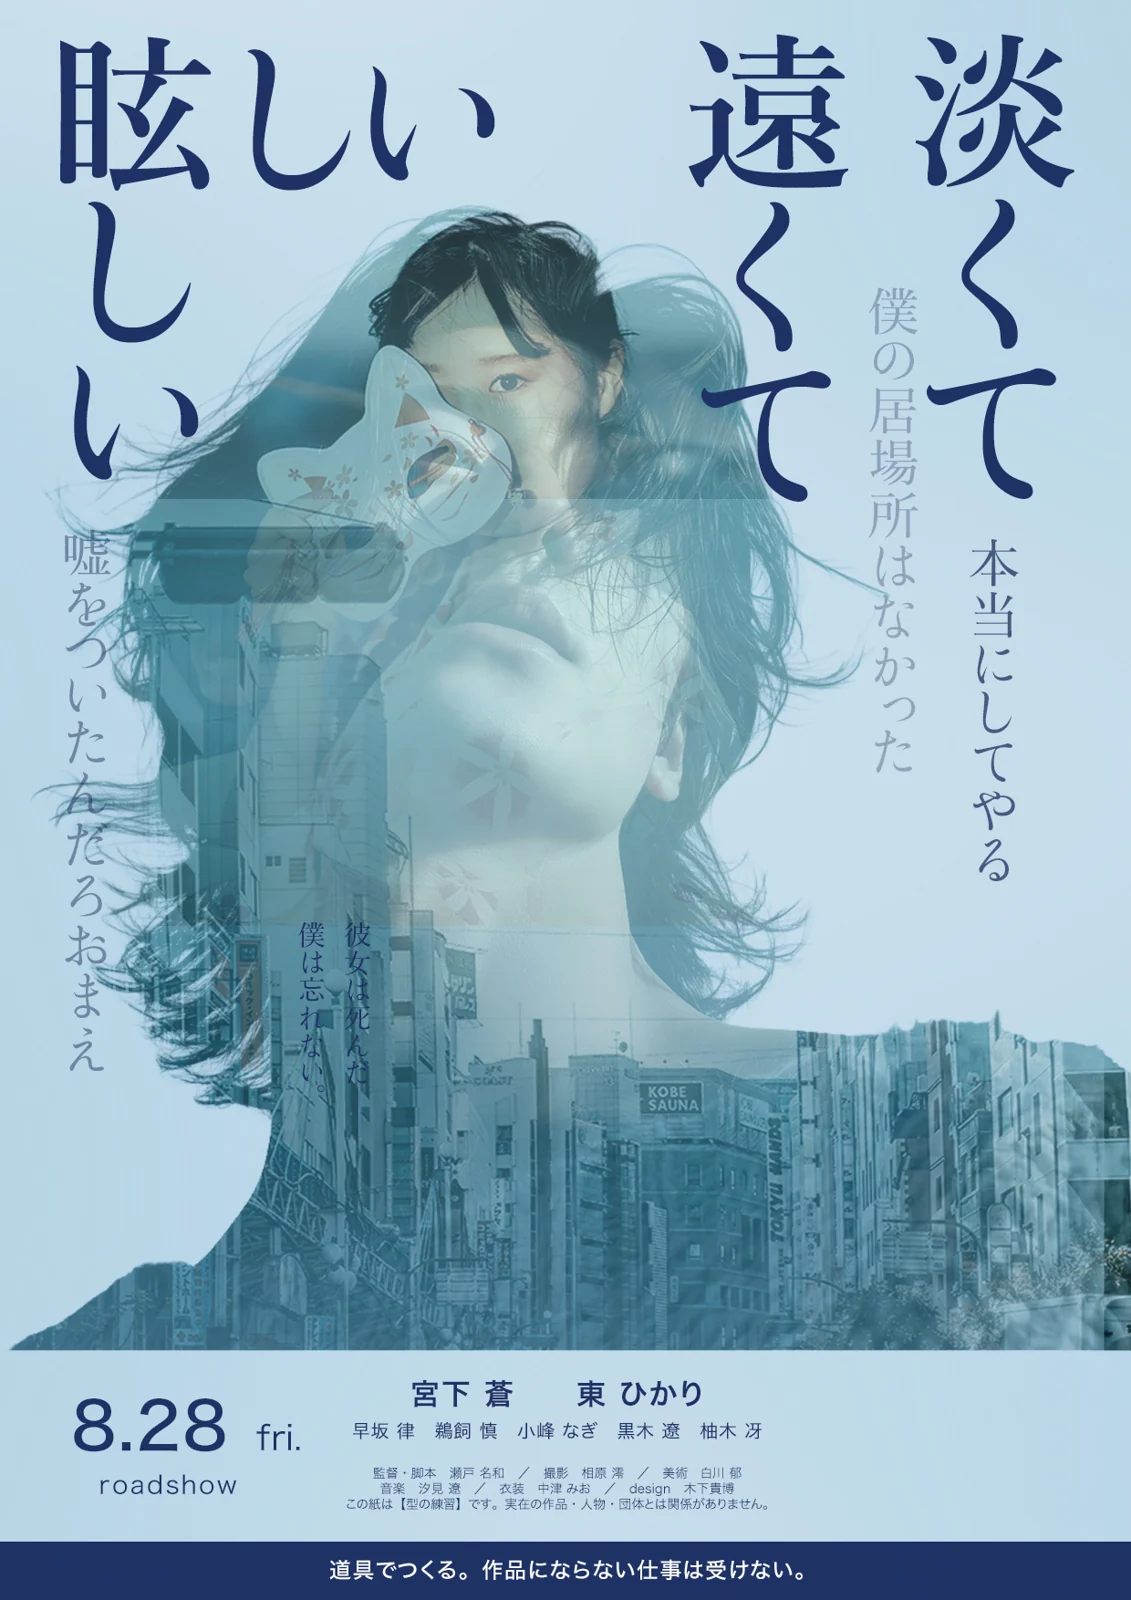
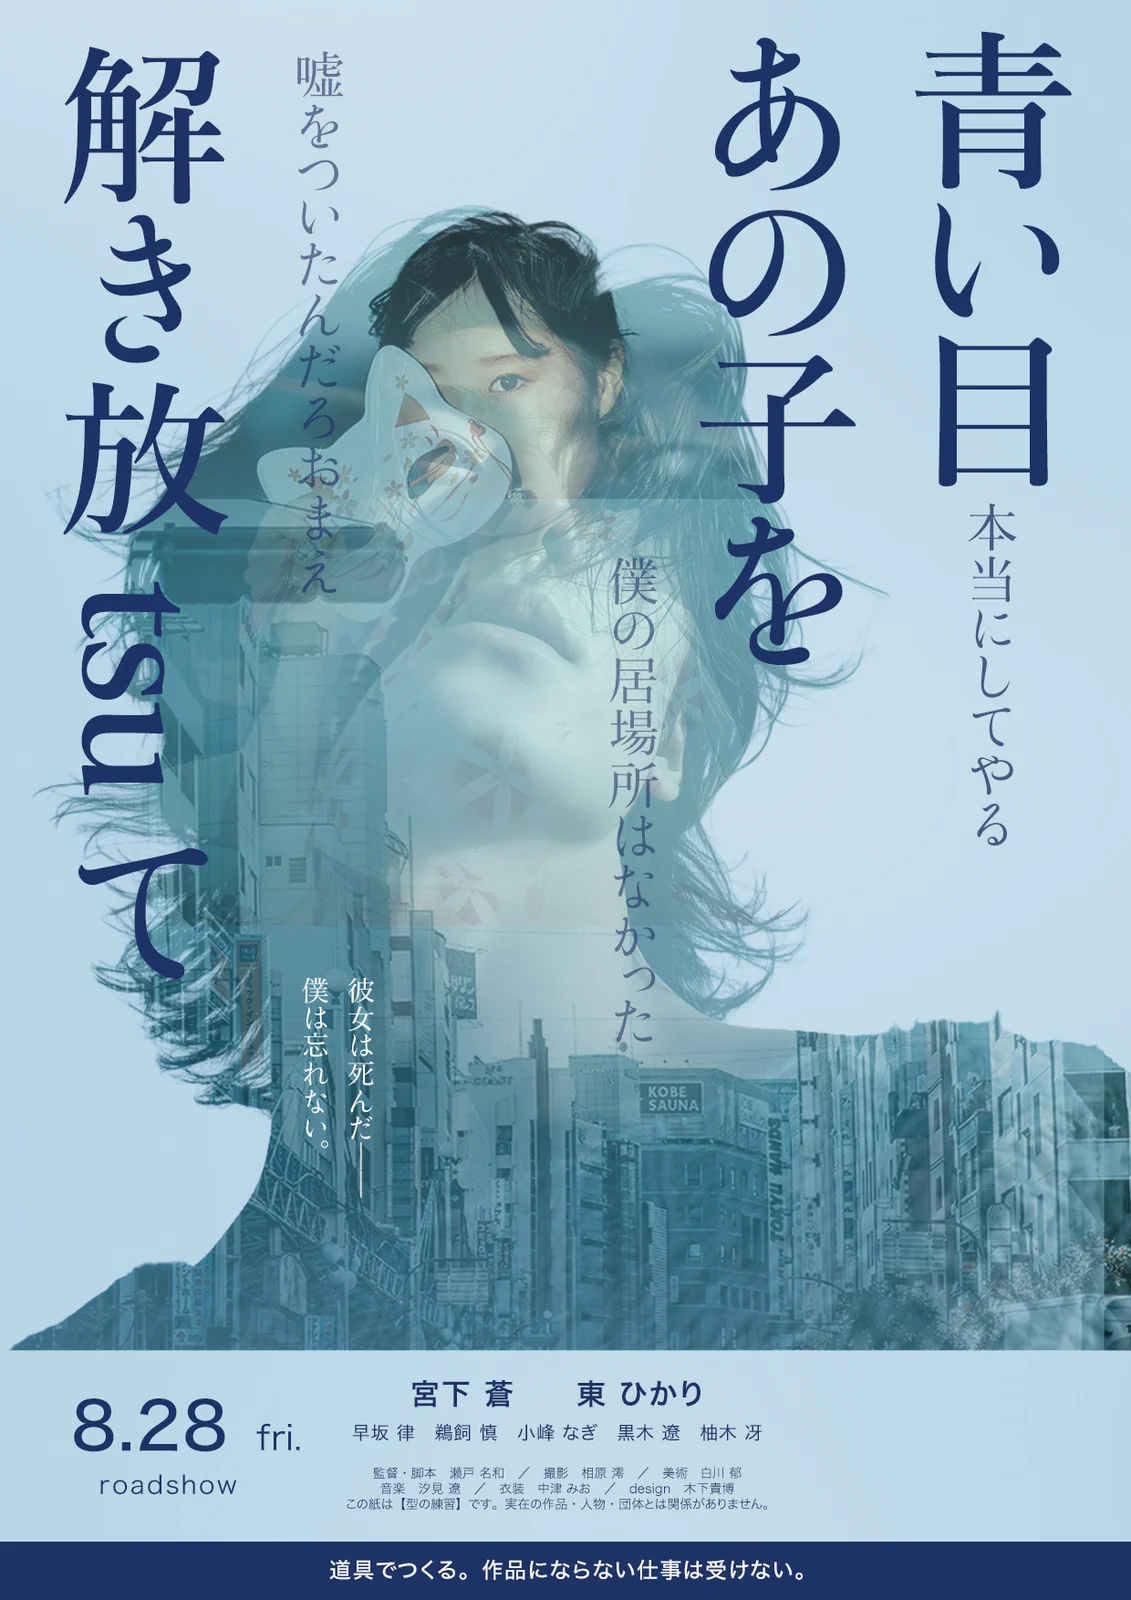
taka: ポスターの題字変更に合わせて画像と見出しを差し替え
淡くて遠くて眩しい → 青い目、あの子を解き放て

- img/awakute.webp を v4.psd（2026-09-16 12:57 保存）の合成から作り直し
  1131x1600 のまま 137,292 → 147,028 バイト（HTMLのパスは変更なし）
- index.html の見出しと alt を新しい題字に

diff --git a/taka/index.html b/taka/index.html
@@ -435,8 +435,8 @@ main.list{max-width:1440px;margin:0 auto;padding-block:120px 160px}
     <span class="cap"><b>ハジマリノイロ</b><span class="mono">CINEMA POSTER</span><span class="mono r">AD / DESIGN / TITLE</span></span>
   </a>
   <div class="w" data-k="poster">
-    <img src="img/awakute.webp" alt="淡くて遠くて眩しい" >
-    <span class="cap"><b>淡くて遠くて眩しい</b><span class="mono">CINEMA POSTER</span><span class="mono r">AD / DESIGN</span></span>
+    <img src="img/awakute.webp" alt="青い目、あの子を解き放て" >
+    <span class="cap"><b>青い目、あの子を解き放て</b><span class="mono">CINEMA POSTER</span><span class="mono r">AD / DESIGN</span></span>
   </div>
   <a href="/case-branding-jutaku-home.html" class="w" data-k="brand">
     <img src="img/jutaku.webp" alt="住宅ホーム" >
